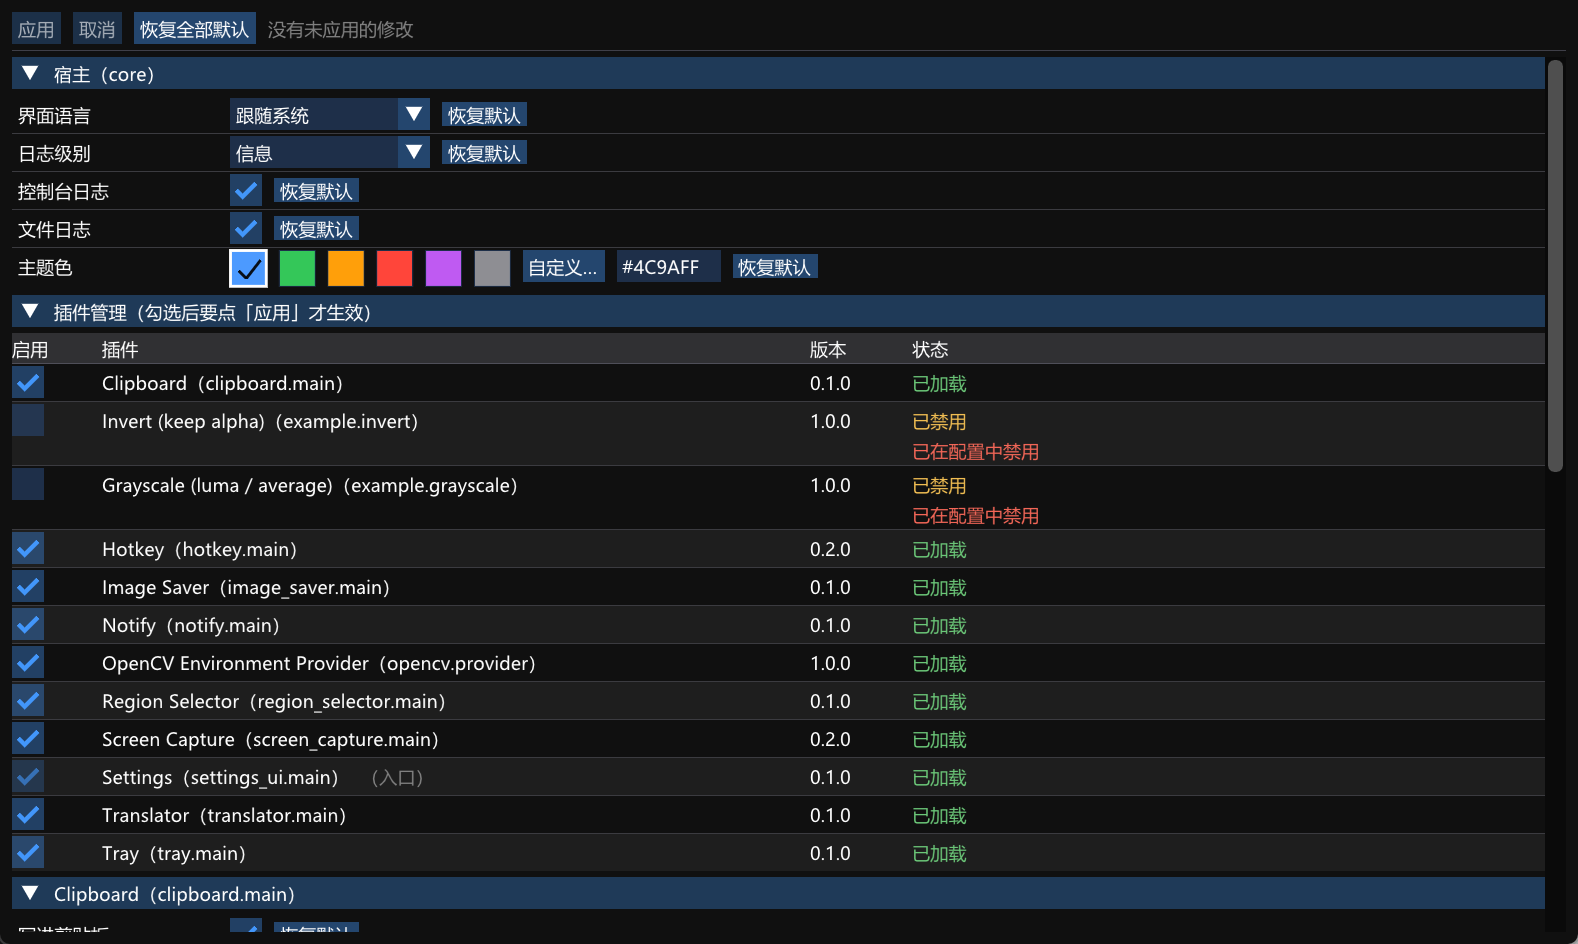
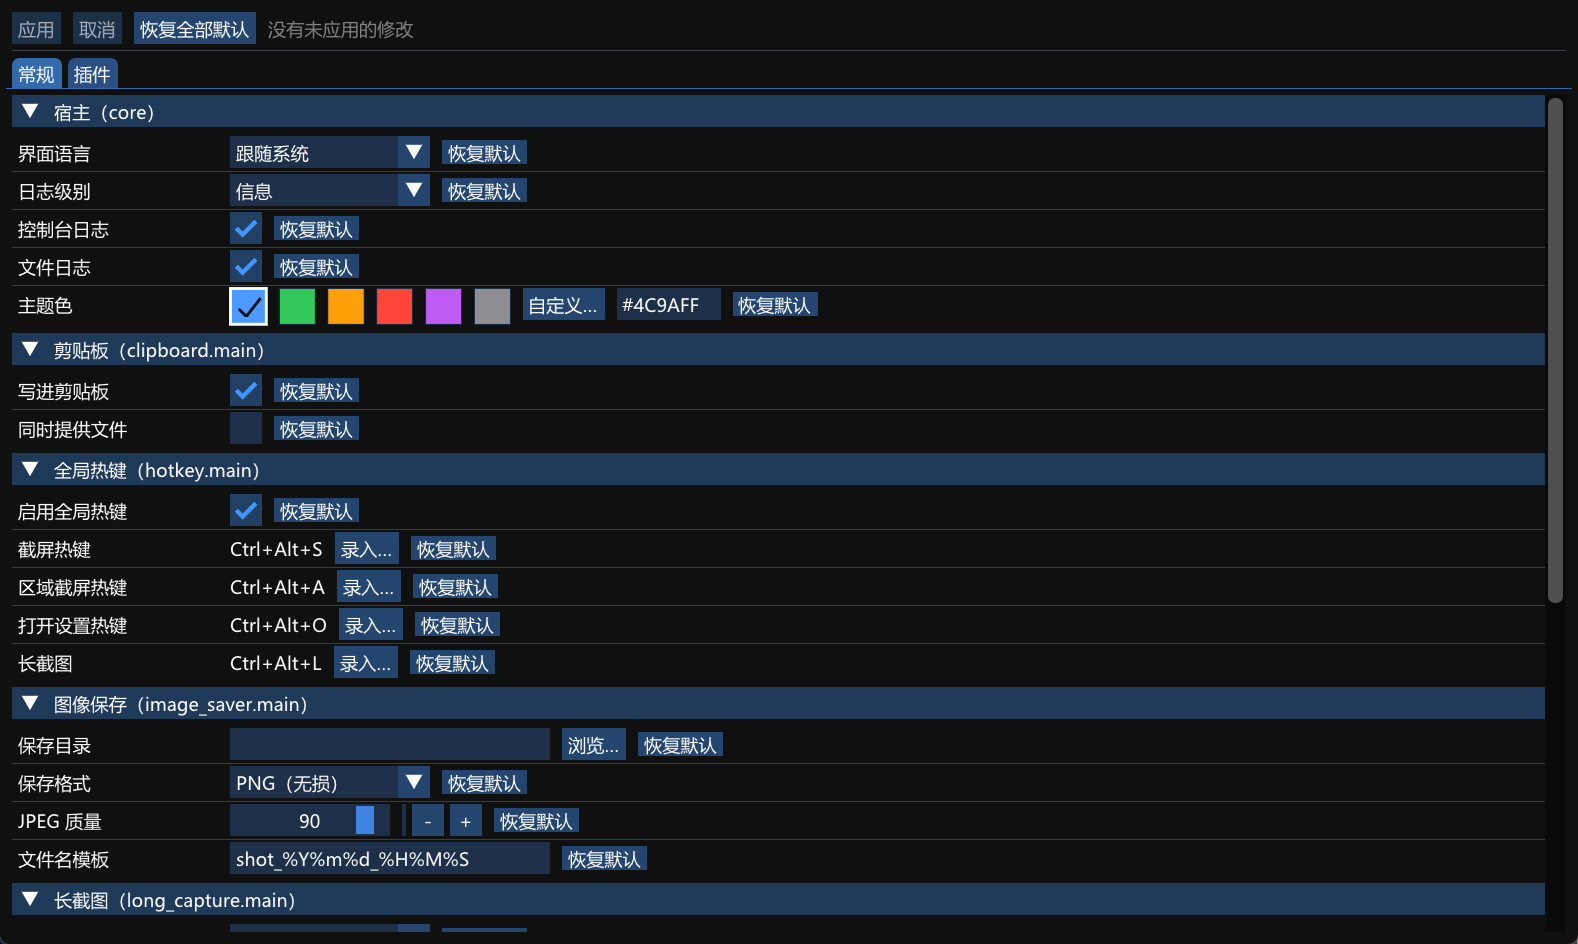
0.1.0 发布物料：Linux 真机验证、Windows + Linux 横幅与新设置页截图

diff --git a/README.en.md b/README.en.md
@@ -4,7 +4,7 @@
 
 [![License: Apache-2.0](https://img.shields.io/badge/license-Apache--2.0-blue.svg)](LICENSE)
 [![Release](https://img.shields.io/github/v/release/explorer-exe-bilibili/Plugin-shot?label=release)](https://github.com/explorer-exe-bilibili/Plugin-shot/releases)
-[![Platform](https://img.shields.io/badge/platform-Windows%2010%2F11%20x64-0078D4.svg)](#platforms)
+[![Platform](https://img.shields.io/badge/platform-Windows%20%2B%20Linux-0078D4.svg)](#platforms)
 [![C++23](https://img.shields.io/badge/C%2B%2B-23-00599C.svg)](#build)
 
 ![Plugin-shot](document/assets/banner.png)
@@ -19,8 +19,9 @@ plugins, runtime hot-plug, an append-only ABI, and UI data that never enters the
 
 ## At a glance
 
-- **Download and run**: portable Windows 10/11 x64 build; unzip and start `Plugin-shot.exe`.
-- **Three entry points**: `Ctrl+Alt+S` full screen, `Ctrl+Alt+A` region capture (hover a window to snap, click to capture it), `Ctrl+Alt+O` settings.
+- **Windows: download and run**: portable Windows 10/11 x64 build; unzip and start `Plugin-shot.exe`.
+- **Linux: verified on real hardware**: the core chain runs on Ubuntu 24.04 (X11) / Ubuntu 26 (Wayland, single monitor); build it from source as described under [Build](#build).
+- **Three entry points**: `Ctrl+Alt+S` full screen, `Ctrl+Alt+A` region capture (hover a window to snap, click to capture it), `Ctrl+Alt+O` settings; Windows / X11 use global hotkeys, while Wayland uses the `session_control` D-Bus entry plus a desktop custom shortcut.
 - **After the shot**: save PNG/JPEG, copy to the clipboard, show a system notification; output folder, format, quality and filename template are configurable.
 - **Everything is a plugin**: tray, hotkeys, settings UI, saving, notifications and clipboard are plugins themselves, each can be disabled or re-enabled in the settings window.
 - **Extend it**: build one DLL with the offline SDK to add your own processor or entry point — no host changes.
@@ -30,9 +31,9 @@ plugins, runtime hot-plug, an append-only ABI, and UI data that never enters the
 [**Plugin-shot 0.1.0 · Windows x64 portable**](https://github.com/explorer-exe-bilibili/Plugin-shot/releases/latest) ·
 [Changelog](CHANGELOG.md)
 
-Unzip and run `Plugin-shot.exe`. 0.1.0 ships a Windows build only; the Linux core path has been
-verified on real hardware under Ubuntu 24.04 (X11) / Ubuntu 26 (Wayland), while macOS has not —
-see [Platforms](#platforms).
+Unzip and run `Plugin-shot.exe`. 0.1.0 ships a **prebuilt Windows package only**; the **Linux core
+path is verified on real hardware** under Ubuntu 24.04 (X11) / Ubuntu 26 (Wayland, single monitor),
+and is built from source via [Build](#build). macOS is not verified yet — see [Platforms](#platforms).
 
 ### UI
 
@@ -591,9 +592,10 @@ the root `CMakeLists.txt` and drifted away from the docs.
 
 ## Platforms
 
-> **0.1.0 release scope**: a **Windows 10/11 x64** build only. This section records the state of the
-> repository code and real-hardware verification, not a promise for 0.1.0; unverified capabilities
-> are not shipped in this release.
+> **0.1.0 release scope**: the prebuilt package is **Windows 10/11 x64**; the **Linux core chain
+> (Ubuntu 24.04 X11 / Ubuntu 26 Wayland, single monitor) is verified on real hardware** and built
+> from source — no prebuilt Linux package is provided in this version. macOS is not verified. This
+> section records the state of the repository code and real-hardware verification.
 
 Windows is the primary development and verification platform (MSVC + vcpkg `x64-windows`). On Linux
 the **default target is Wayland** (this round's environment: Ubuntu 26 / Wayland session), with X11

diff --git a/README.md b/README.md
@@ -4,7 +4,7 @@
 
 [![License: Apache-2.0](https://img.shields.io/badge/license-Apache--2.0-blue.svg)](LICENSE)
 [![Release](https://img.shields.io/github/v/release/explorer-exe-bilibili/Plugin-shot?label=release)](https://github.com/explorer-exe-bilibili/Plugin-shot/releases)
-[![Platform](https://img.shields.io/badge/platform-Windows%2010%2F11%20x64-0078D4.svg)](#平台)
+[![Platform](https://img.shields.io/badge/platform-Windows%20%2B%20Linux-0078D4.svg)](#平台)
 [![C++23](https://img.shields.io/badge/C%2B%2B-23-00599C.svg)](#构建)
 
 ![Plugin-shot](document/assets/banner.png)
@@ -17,8 +17,9 @@
 
 ## 30 秒了解
 
-- **下载即用**：Windows 10/11 x64 便携版，解压运行 `Plugin-shot.exe`，无需安装。
-- **三种入口**：`Ctrl+Alt+S` 整屏截图、`Ctrl+Alt+A` 区域框选（悬停窗口吸附、单击截窗）、`Ctrl+Alt+O` 打开设置。
+- **Windows 即用**：Windows 10/11 x64 便携版，解压运行 `Plugin-shot.exe`，无需安装。
+- **Linux 已验证**：Ubuntu 24.04（X11）/ Ubuntu 26（Wayland，单显示器）核心链路已真机跑通，按 [构建](#构建) 编译。
+- **三种入口**：`Ctrl+Alt+S` 整屏截图、`Ctrl+Alt+A` 区域框选（悬停窗口吸附、单击截窗）、`Ctrl+Alt+O` 打开设置；Windows / X11 为全局热键，Wayland 用 `session_control` 的 D-Bus 入口 + 桌面自定义快捷键。
 - **截图之后**：自动保存 PNG/JPEG、写入剪贴板、弹系统通知；目录、格式、质量、文件名模板都可改。
 - **能力即插件**：托盘、热键、设置页、保存、通知、剪贴板本身都是插件，可在设置页一键禁用/启用。
 - **可扩展**：用离线 SDK 写一个 DLL，就能把自己的处理或入口接进来，不用改宿主。
@@ -28,8 +29,9 @@
 [**Plugin-shot 0.1.0 · Windows x64 便携版**](https://github.com/explorer-exe-bilibili/Plugin-shot/releases/latest) ·
 [更新日志](CHANGELOG.md)
 
-解压后双击 `Plugin-shot.exe` 即可。0.1.0 只提供 Windows 构建；Linux 的核心链路已在 Ubuntu 24.04
-（X11）/ Ubuntu 26（Wayland）真机验证，macOS 尚未验证，详见 [平台](#平台)。
+解压后双击 `Plugin-shot.exe` 即可。0.1.0 的**预编译包只提供 Windows**；**Linux 已在 Ubuntu 24.04
+（X11）与 Ubuntu 26（Wayland，单显示器）真机验证**，按 [构建](#构建) 从源码编译；macOS 尚未验证。
+详见 [平台](#平台)。
 
 ### 界面
 
@@ -545,8 +547,9 @@ shot_add_plugin(acme_tools
 
 ## 平台
 
-> **0.1.0 发布口径**：只提供 **Windows 10/11 x64** 构建。下面记录的是仓库代码与真机验证状态，
-> 不是 0.1.0 的发布承诺；未真机验证的能力不随本版本分发。
+> **0.1.0 发布口径**：预编译包提供 **Windows 10/11 x64**；**Linux（Ubuntu 24.04 X11 /
+> Ubuntu 26 Wayland，单显示器）核心链路已真机验证**，本版本提供源码构建，不提供 Linux 预编译包；
+> macOS 未验证。下面记录的是仓库代码与真机验证状态。
 
 Windows 是主要开发与验证平台（MSVC + vcpkg `x64-windows`）。Linux 的**默认目标是 Wayland**
 （本轮实测环境：Ubuntu 26 / Wayland 会话），X11 保留为**第二优先**并已在 Ubuntu 24.04 / X11

diff --git a/CHANGELOG.md b/CHANGELOG.md
@@ -1,8 +1,8 @@
 # 更新日志
 
-## 0.1.0 — 2026-11-12
+## 0.1.0 — 2026-11-14
 
-首个公开版本：Windows 10/11 x64 便携版。
+首个公开版本：Windows 10/11 x64 便携版；Linux（Ubuntu 24.04 X11 / Ubuntu 26 Wayland，单显示器）源码构建已验证。
 
 ### 新增
 
@@ -14,17 +14,20 @@
 - 截图后写入剪贴板（CF_DIB / 可选 CF_HDROP）与系统通知。
 - 托盘入口、全局热键（可在设置页按组合键录入）、设置页。
 - 设置页按插件声明自动生成表单；插件可启用/禁用，禁用即热卸载。
+- 设置页新增「常规 / 插件」页签、插件名称与描述、任务栏闪烁提示；枚举值按 i18n key 显示，插件页文案随语言刷新。
+- 默认保存目录改用系统图片库（Windows KnownFolder / Linux XDG user-dirs），不再硬编码 `Pictures`。
 - 6 套主题色、27 个语言标签、外部语言包协议与翻译插件。
 - 官方 zh-TW 语言包（`files/lang/zh-TW.json`，繁體中文，覆盖 core 与全部内置插件，启用 translator 后生效）；截图通知可点击打开图片 / 所在文件夹，并显示应用名短名。
+- 长截图为实验特性：hash / correlate / phase 三种位移估计算法、缺口回滚恢复、50ms 送帧、高度上限 120000，默认禁用。
 - 命令行 `--capture` / `--settings` / `--help`。
 - 离线插件 SDK（`export_sdk` 目标）。
 - 真机验证脚本：采集、光标合成、设置页、热键、剪贴板、区域框选、多语言。
 
 ### Linux（已实现，真机已验证）
 
-0.1.0 的发布包仍只提供 Windows 构建；以下 Linux 侧代码已在 **Ubuntu 24.04（X11）与
-Ubuntu 26（Wayland，单显示器）** 真机验证（采集 / 框选 / 保存 / 剪贴板 / 通知 / 热键（X11）/
-D-Bus 触发（Wayland）/ 设置页 / 语言包 / 托盘）。
+0.1.0 的**预编译包**仍只提供 Windows 构建；Linux 已在上面的 Ubuntu 24.04（X11）与
+Ubuntu 26（Wayland，单显示器）真机验证（采集 / 框选 / 保存 / 剪贴板 / 通知 / 热键（X11）/
+D-Bus 触发（Wayland）/ 设置页 / 语言包 / 托盘），可按源码构建。
 
 - 托盘插件新增 Linux 后端：StatusNotifierItem + `com.canonical.dbusmenu`（GDBus / 系统
   `gio-2.0`，Ubuntu 需 `libglib2.0-dev`，不新增 vcpkg 依赖）；Windows 后端不变，macOS 仍跳过。
@@ -49,7 +52,7 @@ D-Bus 触发（Wayland）/ 设置页 / 语言包 / 托盘）。
 
 ### 已知限制
 
-- 仅提供 Windows x64 构建；Linux / macOS 未在本版本提供可运行构建。
+- **预编译包仅提供 Windows x64**；Linux 已真机验证（单显示器）但本版本不提供预编译包，需按源码构建；macOS 未验证。
 - 长截图（`long_capture`，Windows）为实验特性，真机完整交互已验证（选窗口 → 滚动 → HUD → 保存）；默认禁用，启用方式见上。
 - 录屏、标注、OCR、上传尚未实现。
 - 设置页文件名模板等少量文案仅提供中文/英文，其它语言回退到英文。
